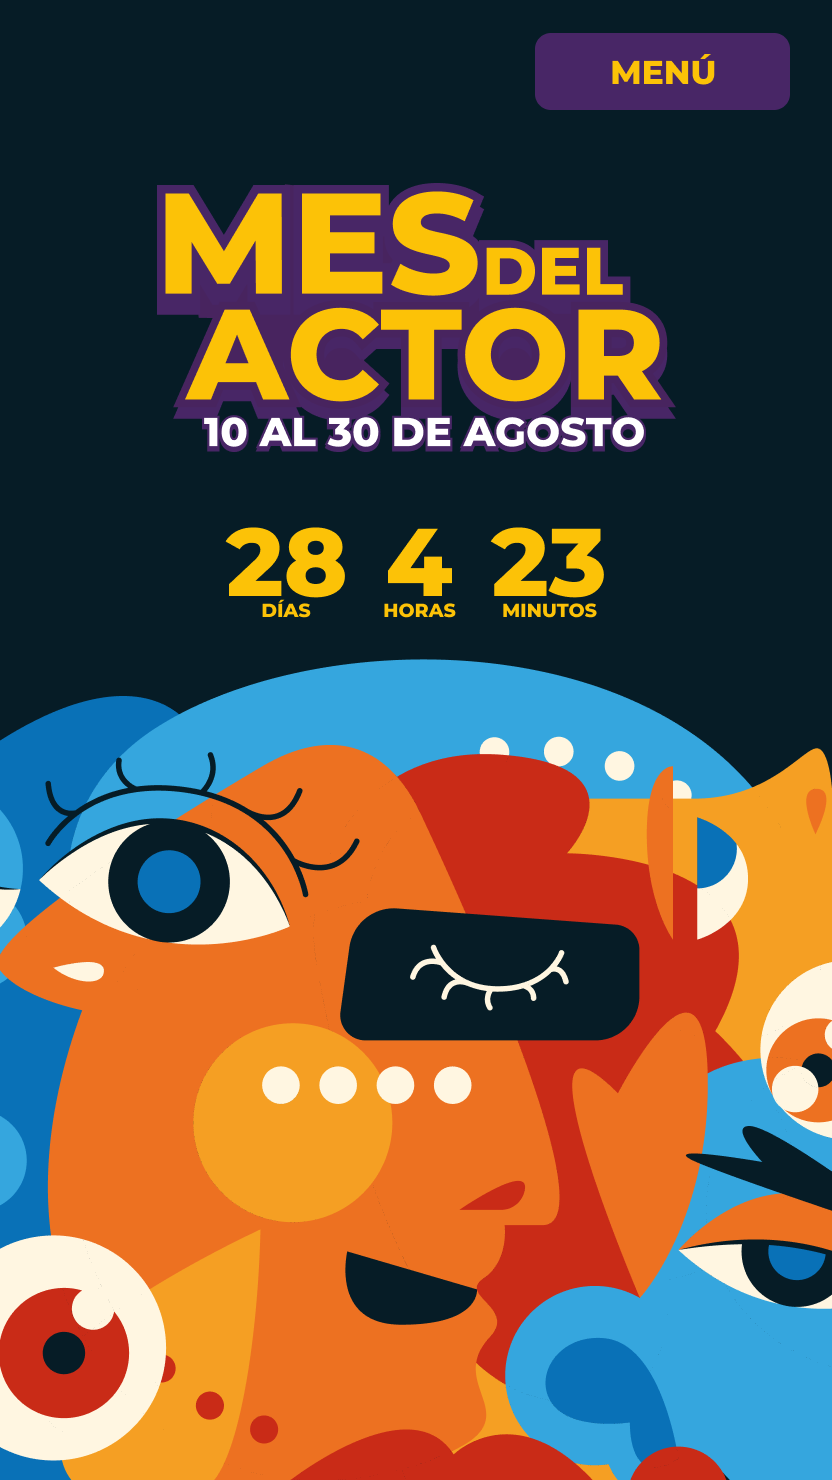
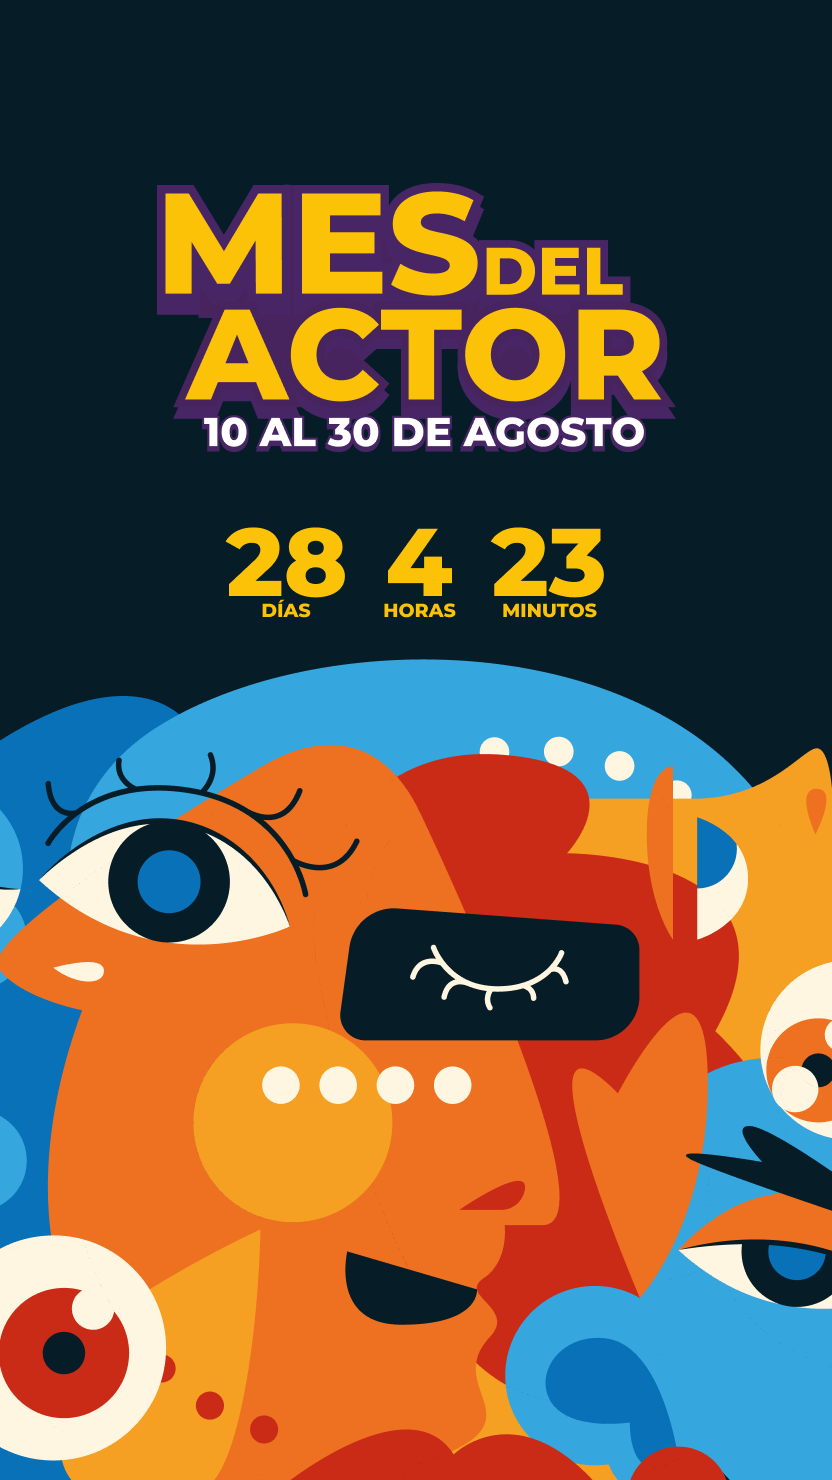
Cambiso 3

Changed region(s): [[0.625, 0.0, 0.9688, 0.0932]]

diff --git a/index.html b/index.html
@@ -18,7 +18,7 @@
         <div class="container">
             <button class="navbar-toggler" type="button" data-bs-toggle="collapse" data-bs-target="#navbarNav"
                 aria-controls="navbarNav" aria-expanded="false" aria-label="Toggle navigation">
-                <span class="navbar-toggler-icon"></span>
+                MENÚ
             </button>
             <div class="collapse navbar-collapse" id="navbarNav">
                 <ul class="navbar-nav gap-5 align-items-center mt-5">
@@ -40,7 +40,7 @@
     </nav>
 
 
-    <div class="banner_desktop">
+    <div class="banner_desktop w-100" >
 
     </div>
 
@@ -158,7 +158,7 @@
 
 
 
-            <section id="conversation" class="section section_conversation">
+            <section id="conversation" class="section section_conversation d-none">
                 <div class="contend-titular" data-aos="fade-right">
                     <span class="title_back">Conversatorio</span>
                     <h2 class="title_section">Conversatorio</h2>
@@ -173,14 +173,6 @@
 
 
     <footer id="rs-footer" class="footer">
-        <div class="custom-shape-divider-top-1721745758">
-            <svg data-name="Layer 1" xmlns="http://www.w3.org/2000/svg" viewBox="0 0 1200 120"
-                preserveAspectRatio="none">
-                <path
-                    d="M985.66,92.83C906.67,72,823.78,31,743.84,14.19c-82.26-17.34-168.06-16.33-250.45.39-57.84,11.73-114,31.07-172,41.86A600.21,600.21,0,0,1,0,27.35V120H1200V95.8C1132.19,118.92,1055.71,111.31,985.66,92.83Z"
-                    class="shape-fill"></path>
-            </svg>
-        </div>
         <div class="footer-top">
             <div class="container">
                 <div class="row">

diff --git a/css/index.css b/css/index.css
@@ -4,6 +4,10 @@
     font-family: "Montserrat", sans-serif;
 }
 
+body {
+    overflow-x: hidden;
+  }
+
 :root {
     --primary-color: #FCC207;
     --secondary-color: #48245F;
@@ -15,10 +19,25 @@
     position: absolute;
 }
 
+.navbar-toggler{
+    background: var(--secondary-color);
+    color: #fff;
+    z-index: 2;
+    position: absolute;
+    right: 2rem;
+    width: 20%;
+    top: 2rem;
+    font-weight: bold;
+    font-size: 1em;
+
+}
+
+
+
 
 
 .banner_desktop {
-    width: 100%;
+    width: 100vw;
     height: 100vh;
     background-image: url('../assets/banner.png');
     background-size: cover;
@@ -28,13 +47,27 @@
     align-items: center;
 }
 
-@media (max-width: 480px) {
+@media (max-width: 1000px) {
     .banner_desktop {
         background-image: url('../assets/banner_mobile.png');
+        background-position: center top;
     }
 
     .contenedor_talleres{
         justify-content: center;
+    }
+
+    .title_section{
+        font-size: 2em !important;
+    }
+
+    .navbar-collapse ul {
+        background-color: red;
+        display: flex;
+        height: 70vh;
+        gap: 2rem;
+        padding: 4rem 0;
+        justify-content: space-between;
     }
 }
 
@@ -44,6 +77,14 @@
         justify-content: center;
         flex-direction: column;
         gap: 2rem;
+    }
+}
+@media (max-width: 600px) {
+
+    .banner_desktop {
+        width: 100%;
+        background-size: contain;
+        background-repeat: no-repeat;
     }
 }
 
@@ -121,9 +162,10 @@
 }
 .contenedor_talleres{
     display: flex;
-    justify-content: space-between;
+    justify-content: center;
     align-items: center;
     flex-wrap: wrap;
+    gap: 2rem;
 }
 
 .item1 {
